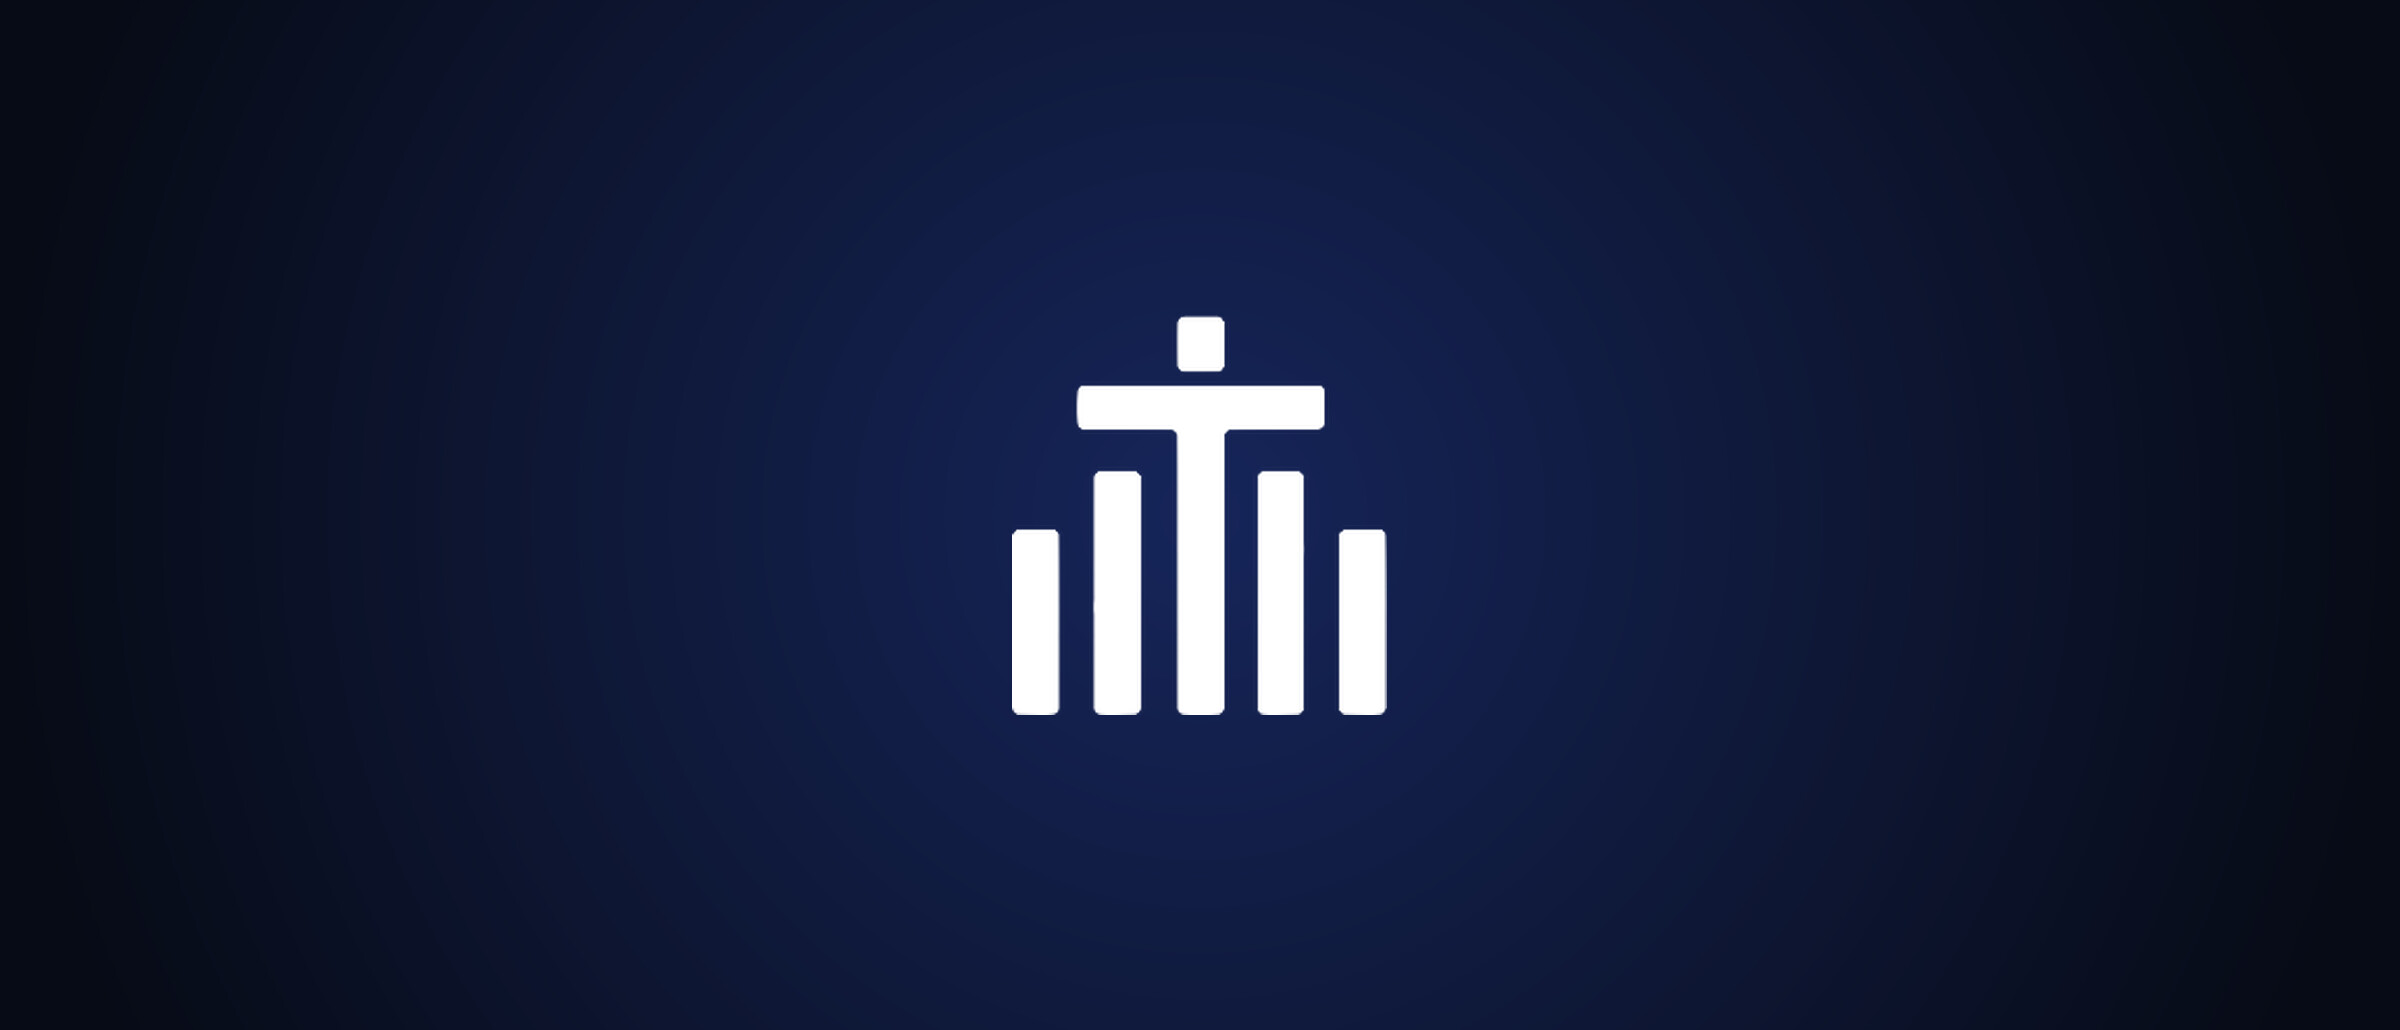
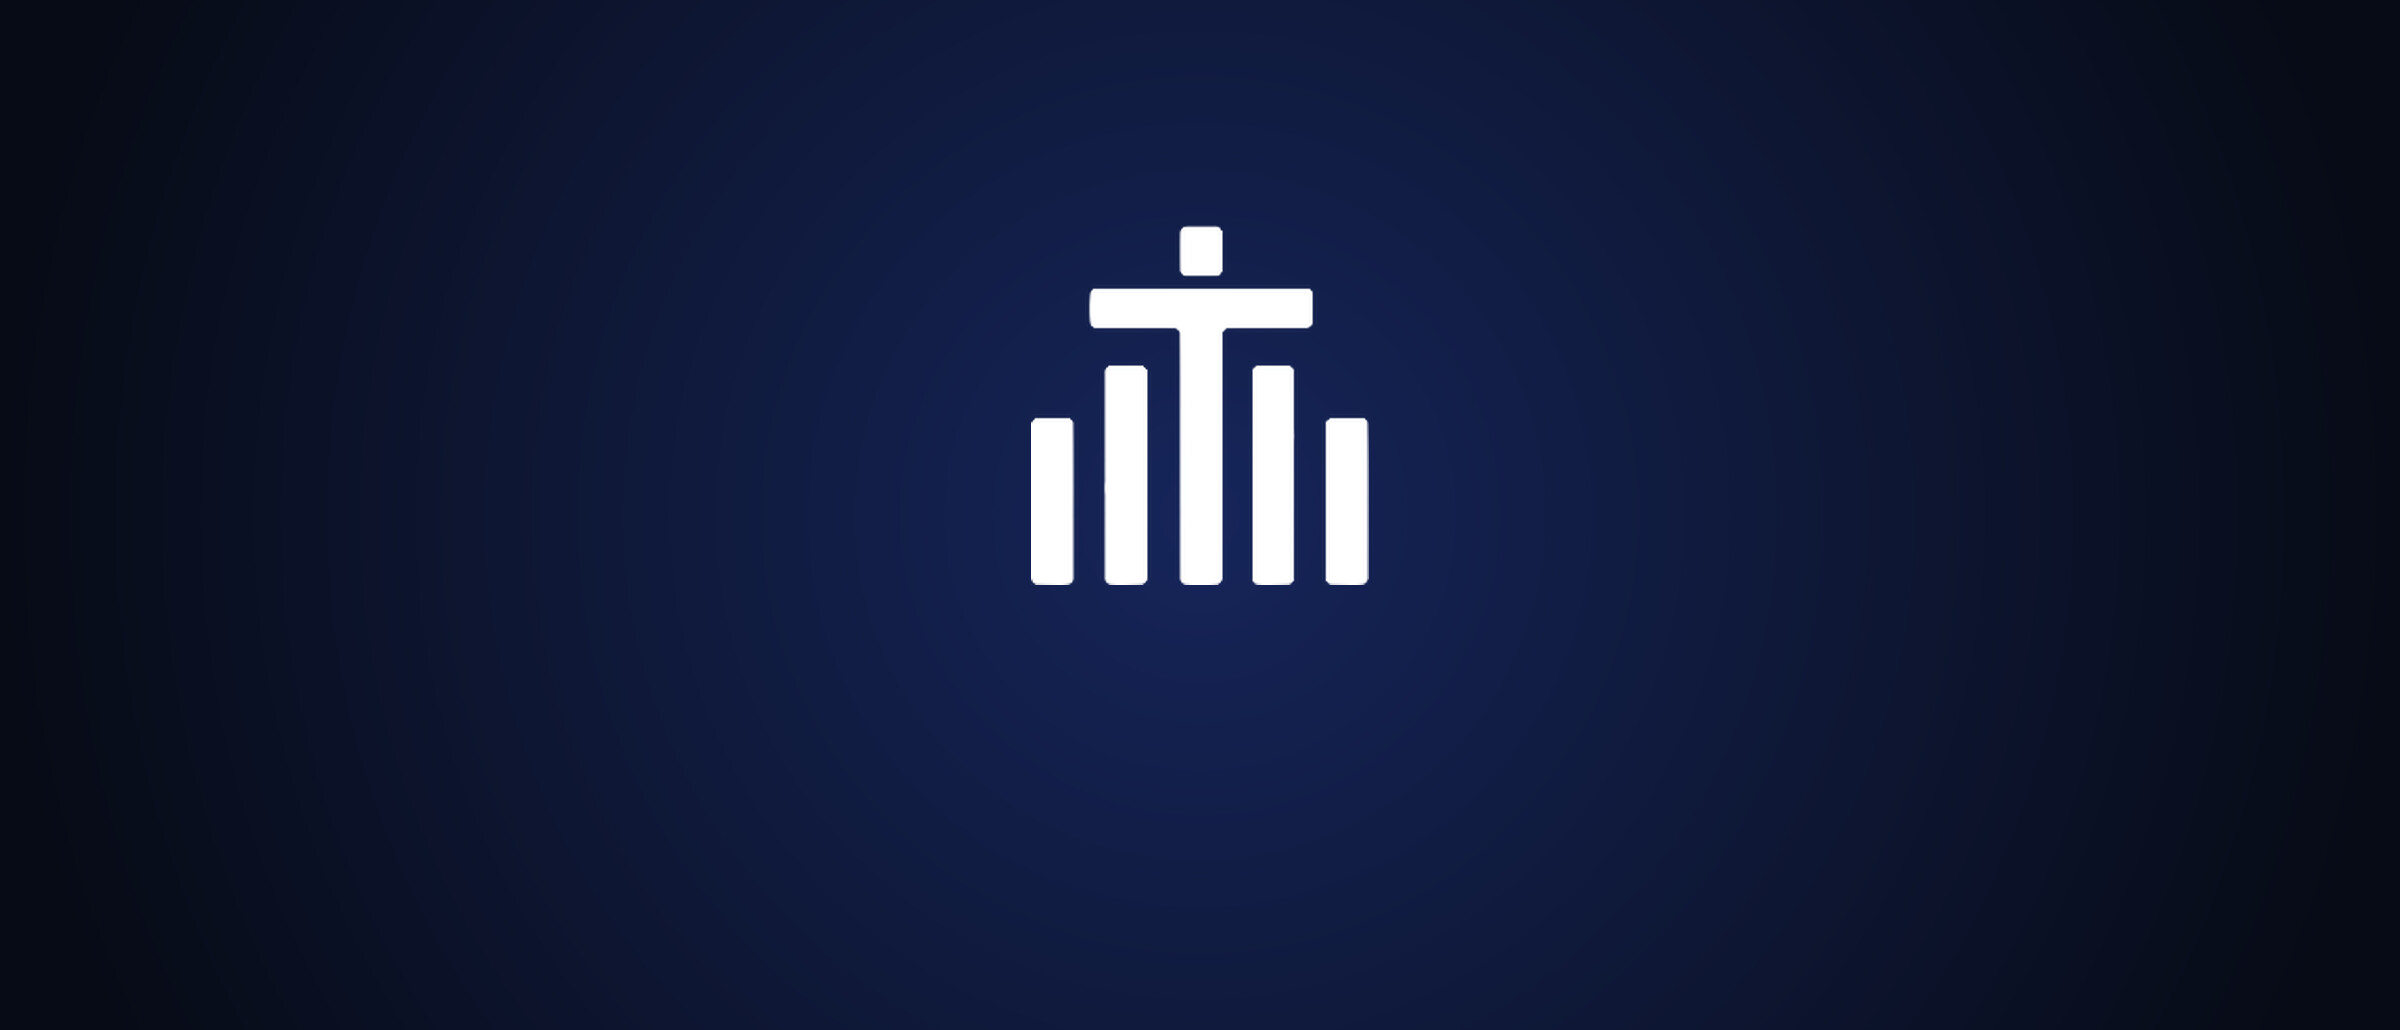
Portfolio: ASC cover title under the symbol
Claude-Session: https://claude.ai/code/session_01Coc6eacKHoP6PzbwVzjPaE

Changed region(s): [[0.4062, 0.2175, 0.5938, 0.7146]]

diff --git a/portafolio/index.html b/portafolio/index.html
@@ -171,6 +171,7 @@
       font-size: clamp(56px, 11vw, 168px); text-shadow: 0 6px 40px rgba(0,0,0,.5);
     }
     .thumb .cover-text.bottom { place-items: end start; padding: 0 0 28px 36px; background: linear-gradient(180deg, rgba(5,7,13,0) 45%, rgba(5,7,13,.65)); }
+    .thumb .cover-text.under-logo { place-items: center; transform: translateY(24%); background: none; font-size: clamp(28px, 4.6vw, 64px); letter-spacing: -0.02em; }
     .card.wide .thumb img { object-fit: cover; }
     .ph {
       display: grid; place-items: center;
@@ -623,6 +624,8 @@
         rol: "Diseñador gráfico",
         descripcion: "Contenido para Instagram: carruseles de perfil que cuentan la historia de la asociación a través de sus líderes, la campaña de Adviento e historias informativas. [Agrega el reto o algún resultado si lo tienes.]",
         imagen: "assets/asc/portada.jpg",
+        textoPortada: "Asociación Santa Cruz",
+        textoBajoLogo: true,
         galeria: [
           "assets/asc/perfil-jc-1.jpg", "assets/asc/perfil-jc-2.jpg", "assets/asc/perfil-jc-3.jpg",
           "assets/asc/perfil-jc-4.jpg", "assets/asc/perfil-monsenor-1.jpg", "assets/asc/perfil-monsenor-2.jpg",
@@ -692,7 +695,7 @@
     // Tarjetas
     grid.innerHTML = proyectos.map((p, i) => `
       <button class="card${p.ancho ? " wide" : ""}" data-cat="${p.categoria}" data-i="${i}">
-        <div class="thumb">${visual(p.imagen, p.color, initials(p.titulo), p.titulo)}${p.textoPortada ? `<span class="cover-text${p.textoAbajo ? " bottom" : ""}">${p.textoPortada}</span>` : ""}</div>
+        <div class="thumb">${visual(p.imagen, p.color, initials(p.titulo), p.titulo)}${p.textoPortada ? `<span class="cover-text${p.textoAbajo ? " bottom" : ""}${p.textoBajoLogo ? " under-logo" : ""}">${p.textoPortada}</span>` : ""}</div>
         <div class="card-meta">
           <span class="num">${String(i + 1).padStart(2, "0")}</span>
           <h3>${p.titulo}</h3>
